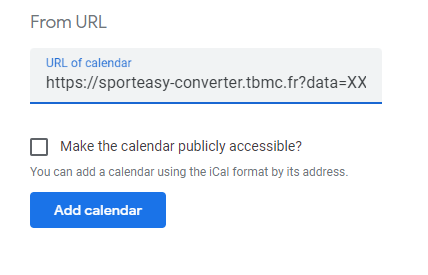
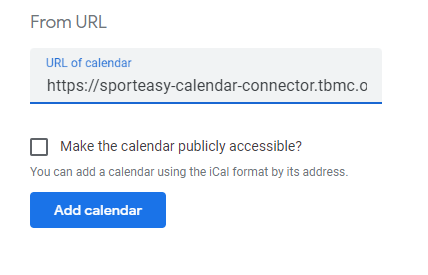
feat: change URLs

Changed region(s): [[0.0911, 0.2618, 0.8808, 0.3491]]

diff --git a/env_to_base64.py b/env_to_base64.py
@@ -30,4 +30,4 @@ encoded_data = urllib.parse.urlencode({
 
 print(f'Data: "{encoded_data}"\n')
 print("Default URL:")
-print(f"https://sporteasy-converter.***REMOVED***?" + encoded_data)
+print(f"https://sporteasy-calendar-connector.tbmc.ovh?" + encoded_data)

diff --git a/Readme.md b/Readme.md
@@ -4,7 +4,7 @@ Generates ICS from SportEasy
 
 ## Simple and rapid use
 
-Go to https://sporteasy-converter.***REMOVED***/
+Go to https://sporteasy-calendar-connector.tbmc.ovh
 
 ## Add SportEasy events to Google Calendar
 
@@ -24,10 +24,10 @@ Application listen on port `5000`.
 
 The same image is available from 2 different registry:
 
-| Host                                                                                                           | Docker image                                                                                             |
-|----------------------------------------------------------------------------------------------------------------|----------------------------------------------------------------------------------------------------------|
-| [ Github ]( https://github.com/tbmc/sporteasy-calendar-connector/pkgs/container/sporteasy-calendar-connector ) | [ ghcr.io/tbmc/sporteasy-calendar-connector:latest ]( ghcr.io/tbmc/sporteasy-calendar-connector:latest ) |
-| [ Docker Hub ]( https://hub.docker.com/r/tbmc/sporteasy-calendar-connector )                                   | [ tbmc/sporteasy-calendar-connector ]( tbmc/sporteasy-calendar-connector:latest )                        |
+| Host                                                                                                           | Docker image                                     |
+|----------------------------------------------------------------------------------------------------------------|--------------------------------------------------|
+| [ Github ]( https://github.com/tbmc/sporteasy-calendar-connector/pkgs/container/sporteasy-calendar-connector ) | ghcr.io/tbmc/sporteasy-calendar-connector:latest |
+| [ Docker Hub ]( https://hub.docker.com/r/tbmc/sporteasy-calendar-connector )                                   | tbmc/sporteasy-calendar-connector:latest         |
 
 ## How to use it
 
@@ -67,7 +67,7 @@ You can use mine, but at your own risk.
 :warning: Data in base64 are not ciphered.
 
 ``
-https://sporteasy-converter.***REMOVED***?data={base64Data}
+https://sporteasy-calendar-connector.tbmc.ovh?data={base64Data}
 ``
 
 ## Info
